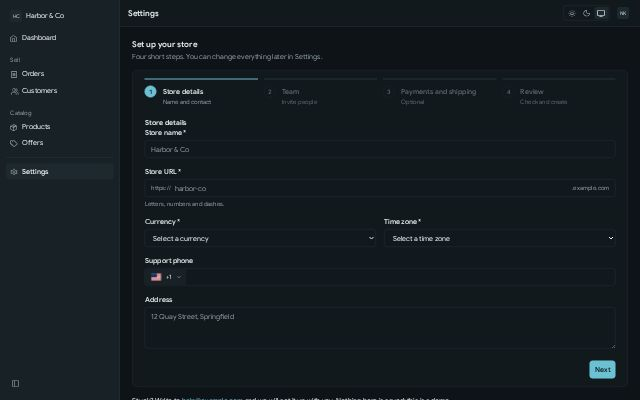
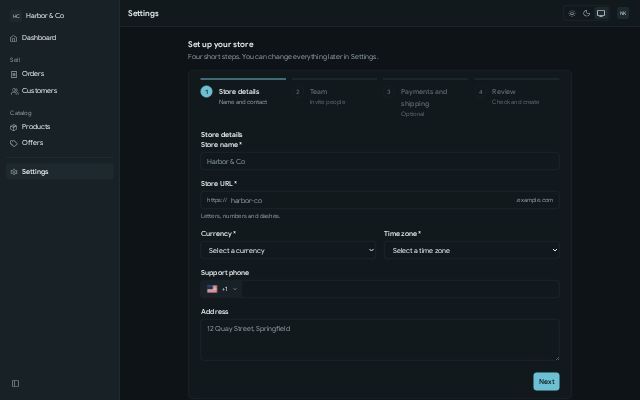
Examples: put the page content in a Container so it does not stretch on a wide screen

diff --git a/site/content/examples/dashboard.html b/site/content/examples/dashboard.html
@@ -165,7 +165,8 @@
       </div>
     </header>
 
-    <main style="padding: var(--space-5) var(--space-4)">
+    <main style="padding-block: var(--space-5)">
+<div class="container" data-size="xl">
       <div class="stack">
         <header class="page-header">
           <div>
@@ -391,6 +392,7 @@
           </div>
         </div>
       </div>
+    </div>
     </main>
   </div>
 </div>

diff --git a/site/content/examples/settings.html b/site/content/examples/settings.html
@@ -133,6 +133,7 @@
       </div>
     </header>
     <main>
+<div class="container" data-size="md">
       <div class="stack">
         <header class="page-header">
           <div>
@@ -330,6 +331,7 @@
           and we will set it up with you. Nothing here is saved: this is a demo.
         </p>
       </div>
+    </div>
     </main>
   </div>
 </div>

diff --git a/site/content/examples/orders.html b/site/content/examples/orders.html
@@ -137,7 +137,8 @@
           </button>
         </div>
     </header>
-    <main class="stack">
+    <main>
+<div class="container stack" data-size="xl">
       <header class="page-header">
         <div>
           <h2>All orders</h2>
@@ -531,6 +532,7 @@
           </button>
         </div>
       </div>
+    </div>
     </main>
   </div>
   <dialog
